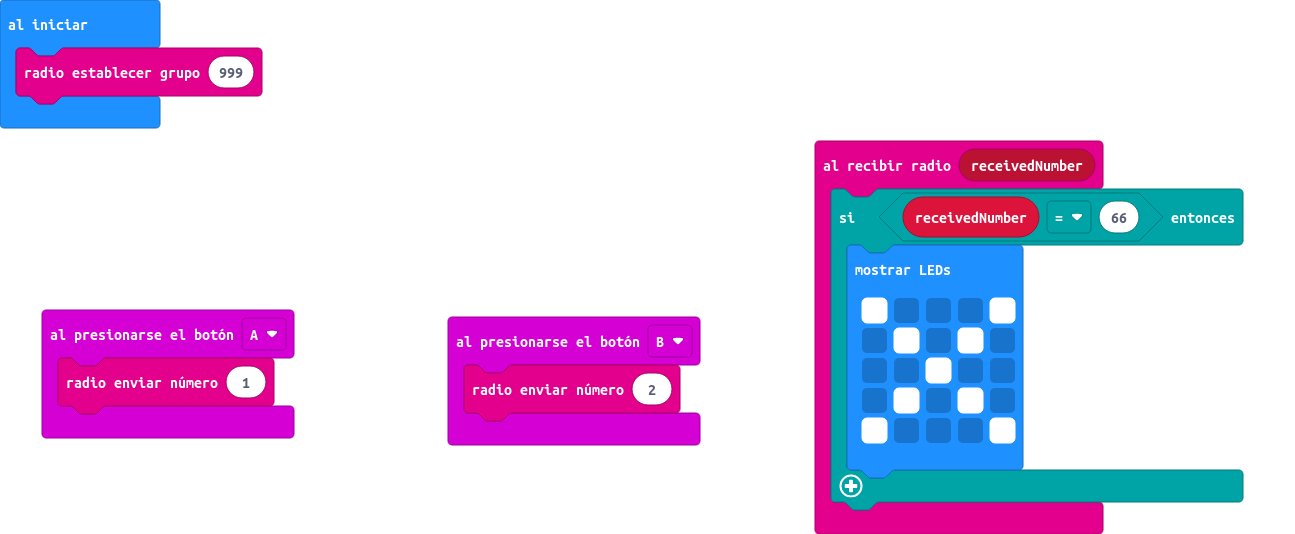
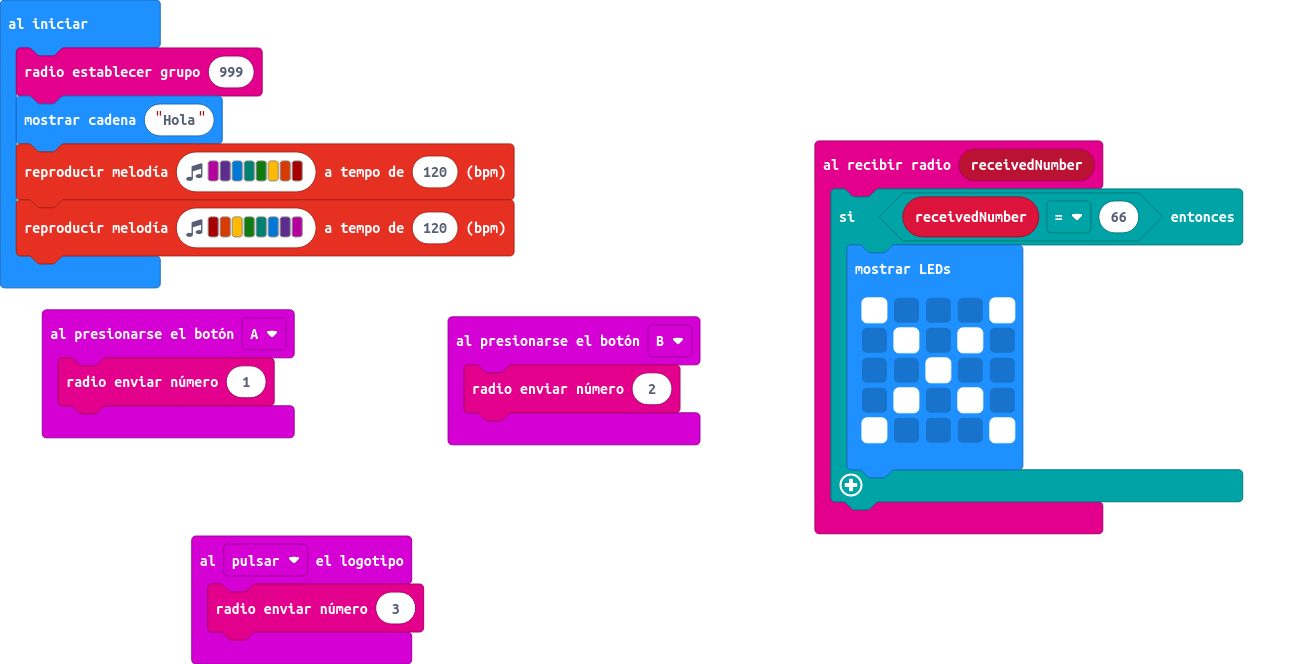
Terminado

diff --git a/main.ts b/main.ts
@@ -9,6 +9,9 @@ radio.onReceivedNumber(function (receivedNumber) {
             `)
     }
 })
+input.onLogoEvent(TouchButtonEvent.Pressed, function () {
+    radio.sendNumber(3)
+})
 input.onButtonPressed(Button.A, function () {
     radio.sendNumber(1)
 })
@@ -16,3 +19,6 @@ input.onButtonPressed(Button.B, function () {
     radio.sendNumber(2)
 })
 radio.setGroup(999)
+basic.showString("Hola")
+music.playMelody("C D E F G A B C5 ", 120)
+music.playMelody("C5 B A G F E D C ", 120)
